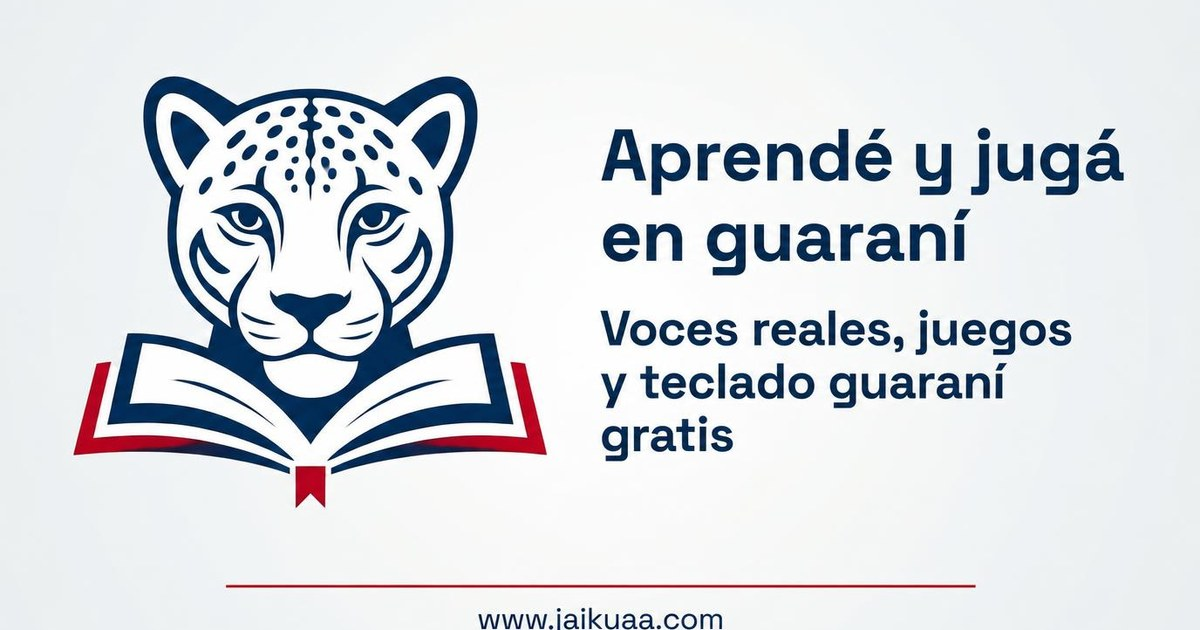
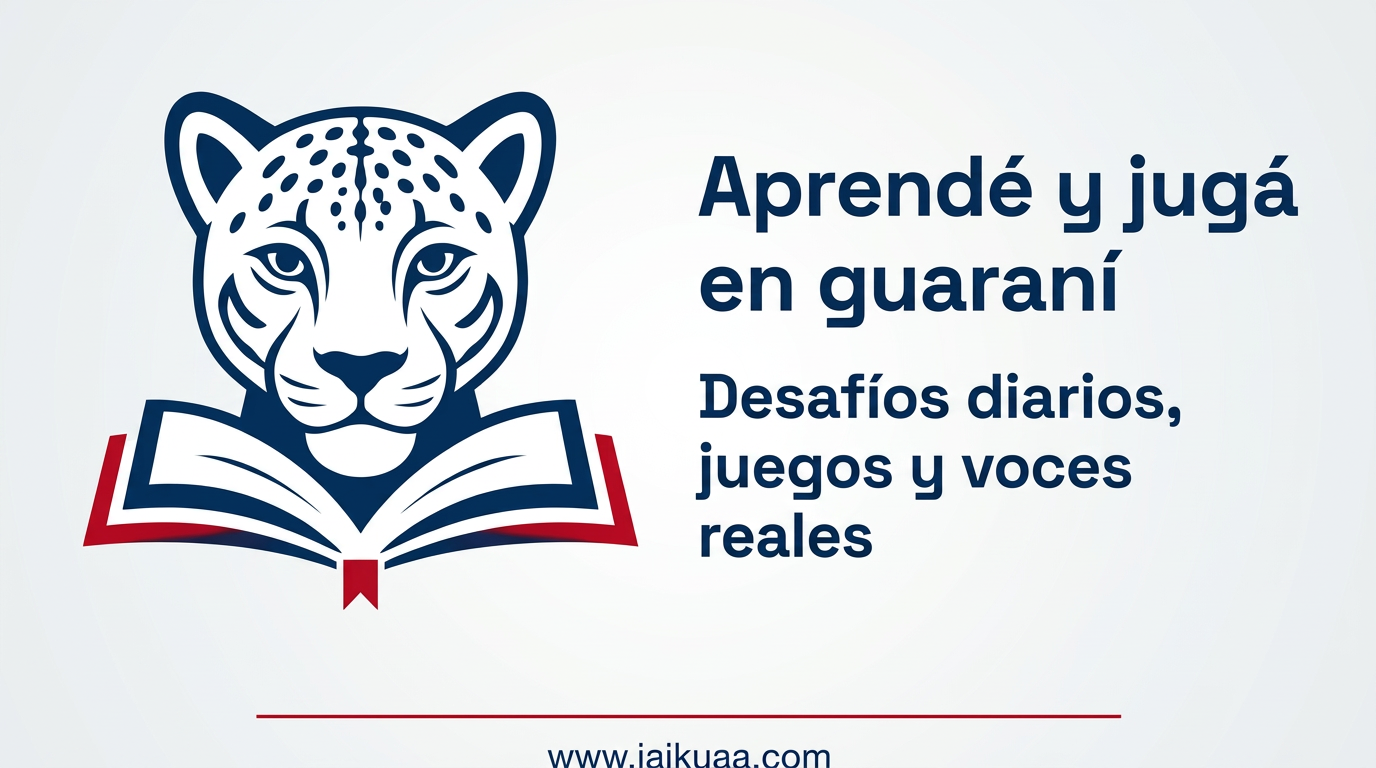
Changes

diff --git a/src/routes/_authenticated/embajadores.tsx b/src/routes/_authenticated/embajadores.tsx
@@ -25,7 +25,7 @@ function EmbajadoresPage() {
   const fetchInfo = useServerFn(getAmbassadorInfo);
   const { data, isLoading, isError } = useQuery({ queryKey: ["ambassador"], queryFn: () => fetchInfo() });
   const link = data ? `https://www.jaikuaa.com/auth?ref=${data.code}` : "";
-  const shareText = `Te invito a aprender y jugar en guaraní gratis en Jaikuaa: ${link}\n\nTambién tenés un teclado guaraní gratis: https://www.jaikuaa.com/teclado`;
+  const shareText = `Te invito a aprender y jugar en guaraní gratis en Jaikuaa: desafíos diarios, juegos y voces reales. ${link}`;
 
   const copy = async () => {
     await navigator.clipboard.writeText(link);
